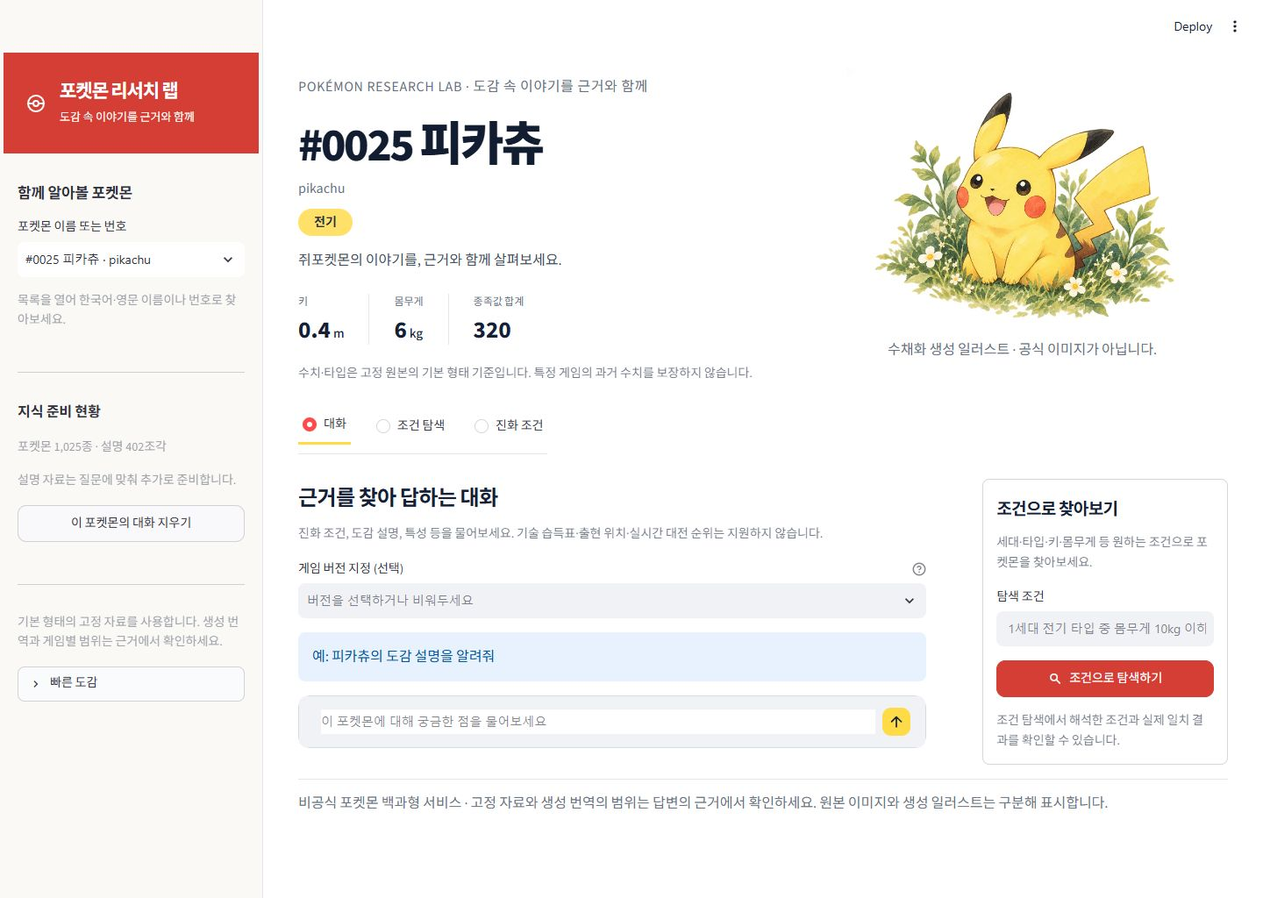
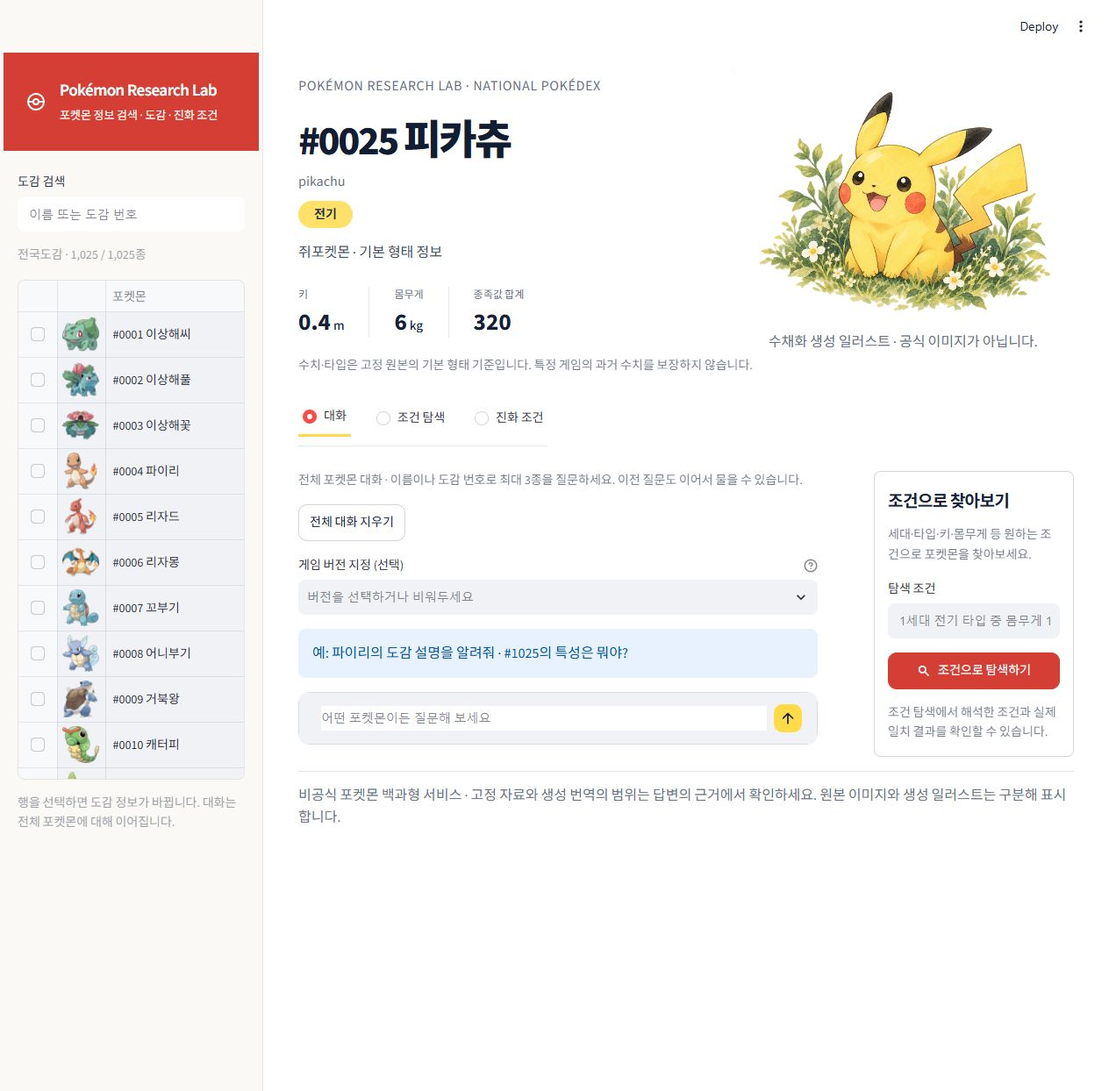
docs: save handoff, screenshots and self-review checkpoint

diff --git a/docs/rag/pokemon/HANDOFF.md b/docs/rag/pokemon/HANDOFF.md
@@ -1,0 +1,113 @@
+# Pokémon Research Lab 작업 인계
+
+기준: 2026-10-23 KST. 다른 채팅·도구·PC에서 작업을 이어갈 때 README와 이 문서를 먼저 읽고, 현재 파일과 실제 실행 결과를 다시 확인한다. 키나 데이터 전문은 이 문서에 없다.
+
+## 프로젝트와 사용자 결정
+
+현재 도메인은 포켓몬이다. 영화 데이터는 예비 후보였으며 사용하지 않았다. 반려식물도 검토했지만 포켓몬 백과형 RAG로 확정했다. 원래 ML 결과와 Streamlit 실습 예제는 보존한다.
+
+전국도감 1~1,025종을 대상으로 도감 설명·특성·진화 조건과 객관 조건 탐색을 제공한다. 최신 웹 전체 정보를 보장하는 서비스가 아니라 고정 PokéAPI 자료와 별도 생성 번역을 사용하는 비공식 도감이다. 특정 게임 적용 여부는 해당 버전의 근거로만 답한다.
+
+작업은 `WORK_PLAN.md`에 맞춰 작은 단위로 진행하고, 사용자가 다음 단위를 요청하기 전 이후 기능까지 만들지 않는다. 현재 추가 작업은 6b이며, 사용자가 체크리스트 점검과 인계 문서도 명시적으로 함께 요청했다. 선택 심화 F2013~F2016은 미선택이다.
+
+## 저장소와 제외 규칙
+
+- 공개 GitHub: https://github.com/cheese-flavor/pokemon-research-lab
+- 로컬 프로젝트 루트: `C:\Users\SSAFY\Desktop\05-pjt`.
+- 원본 루트의 `origin`은 GitLab로 남아 있지만 **사용자 요청으로 모든 GitLab 푸시·재시도 중단**. GitHub만 갱신한다. 원격 이름을 보고 무조건 `git push origin` 하지 않는다.
+- GitHub는 과거 ML 이력이 없는 별도 공개 이력이다. 최초 공개 커밋은 `5eb9a2b`, 공개 확인 문서 커밋은 `5f24f79`였다. 후속 커밋은 실제 Git 로그에서 확인한다.
+- 현재 공개 저장소 작업 복사본은 ignored `outputs/pokemon/public-release-v2/`다. 그 복사본의 `origin`은 GitHub다. 다른 PC에서는 GitHub를 새로 clone한다.
+- PDF, 원본/점검 Excel, 데이터, 다운로드한 이미지, API 응답 캐시, 임베딩, 벡터 DB, `.env`와 비밀은 모든 원격에서 제외한다. 이미 추적된 파일에는 ignore가 소급되지 않으므로 매번 스테이징 목록을 검사한다.
+- `scripts/export_pokemon_public.py`는 허용된 포켓몬 코드·설정·문서·테스트·생성 화면 에셋·집계 그림·기능 캡처만 새 폴더로 내보낸다. 대상은 새 폴더여야 한다. 기존 폴더 삭제/덮어쓰기나 과거 이력 재작성·force push를 하지 않는다.
+- 공개 갱신은 내보내기 후보와 비밀 검사를 거친 변경 파일만 GitHub 작업 복사본에 복사·검토·명시적 stage·commit·일반 push한다. `result`의 공개 범위도 PNG와 Markdown뿐이다.
+
+## 구현된 흐름과 파일
+
+| 영역 | 주요 파일 / 역할 |
+|---|---|
+| 수집 | `scripts/collect_pokemon_bulk.py`: 1,025종 정식 재현 경로. `collect_pokemon.py`는 151종 파일럿 |
+| 번역 | `translate_pokemon_descriptions.py`, `review_pokemon_translation.py`, `pokemon_korean_terms.py` |
+| 메타 색인 | `index_pokemon_metadata.py`, `src/pokemon/data.py`, `embeddings.py`, `store.py` |
+| 문서 준비 | `sources.py`, `ingestion.py`, `chunking.py`, `prompts.py` |
+| RAG | `retrieval.py`, `graph.py`, `rag.py`, `citations.py`, `llm.py` |
+| 전체 대화 | `conversation.py`: 정확한 이름/번호, 최대 3종의 별도 조회, 인용 재번호, 이전 주제 후속 질문 |
+| 특화 기능 | `explore.py`: 조건 해석 후 모든 속성 재검사. `evolution.py`: 원본 조건 행 확장 |
+| 화면 | `streamlit_lab/app.py`, `src/pokemon/ui_theme.py`, `streamlit_lab/assets/pokemon.css` |
+| 설정/테스트 | `config/pokemon_rag.toml`, `requirements-pokemon-rag.txt`, `tests/test_pokemon*.py` |
+
+LangGraph는 retrieve와 generate 두 노드다. 메타데이터를 반드시 포함하고, 외부 문서는 정확한 item_id/source_item_id와 요청 버전/버전 그룹으로 제한한다. 인용 번호가 맞는 것과 사실이 맞는 것은 별도 평가다. 사용한 출처만 화면에 표시하고 프롬프트/데이터 전문을 원격 tracing에 내보내지 않는다.
+
+조건 탐색은 세대·타입·키·몸무게·능력치·전설/환상 여부만 실제 메타데이터로 재확인한다. 모호하거나 미지원 조건은 결과를 만들지 않는다. 진화 카드는 원본 조건 행을 확장하며 AND/OR, 0 값, 형태 ID, 적용 범위를 유지한다.
+
+## 데이터와 로컬 전용 파일
+
+| 경로 | 의미 |
+|---|---|
+| `dataset/pokemon/items.json` | 기본 개체에 연결한 1,025종 메타데이터 |
+| `dataset/pokemon/documents.json` | 보존할 원본 코퍼스, 64,017문서 |
+| `dataset/pokemon/documents_ko_enriched.json` | 후속 RAG용 보완 코퍼스, 64,264문서 |
+| `dataset/pokemon/raw/bulk_*/` | 고정 리비전 CSV 20개와 원본 출처/해시 |
+| `dataset/pokemon/ingestion/active.json` | 반드시 읽어야 하는 현재 설명 컬렉션 포인터 |
+| `dataset/pokemon/ingestion/manifest_*.json` | 설정 세대별 필수 문서·청크 연결 |
+| `dataset/pokemon/ingestion/cache/` | 검색/모델 캐시와 전체 provenance sidecar |
+| `dataset/pokemon/vectorstore/`, `embeddings/` | 로컬 Chroma 및 GMS 임베딩 캐시 |
+| `dataset/pokemon/artwork/` | 1,025종 이미지와 출처/해시 manifest |
+| `streamlit_lab/.env` | 사용자가 입력한 로컬 GMS 키, 다른 환경에서 별도 준비 |
+| `outputs/pokemon/` | 비공개 실행 결과·답변·점검 사본·공개 내보내기 복사본 |
+
+한국어 설명이 없던 127종의 영어 버전 설명 247건을 GMS로 번역하고 별도 모델 검수했다. 생성 번역은 공식 한국어 문구나 독립된 사람 검수로 표시하지 않는다. 원문 언어/문구/ID/버전/모델/검수 provenance를 보존한다. 공식 한국어 명칭·구성요소 9개를 조사해 번역 11건을 보완했고, 날개의왕·무쇠이무기·외미르·내미르를 새 종으로 세지 않았다.
+
+메타 1,025건을 색인했고 설명은 질문별로 증분 준비한다. 작업 4의 224청크는 역사적 수치이며 작업 7의 추가 질문 이후 기본 설명 컬렉션은 402청크가 됐다. 새로운 질문은 이 수를 늘릴 수 있다. 전체 코퍼스를 모두 선색인했다고 가정하지 않는다. 다른 청킹 설정은 별도 컬렉션으로 보존한다.
+
+이름·타입 벡터 검색 점검은 기대 종 Top-5 3/5였으므로 고유명사 식별은 정확한 이름·번호를 사용한다. 의미 검색 품질이 충분히 검증됐다고 표현하지 않는다.
+
+## 모델과 재실행
+
+답변 모델은 사용자 선택 `gpt-6.1-sol`, 주소는 SSAFY GMS `https://gms.ssafy.io/gmsapi/api.openai.com/v1/responses`다. 임베딩은 GMS `text-embedding-3-small`, 1,536차원이다. 직접 OpenAI 계정으로 바꾸지 않는다. 모델 목록 조회는 500 오류였고 실제 임베딩/Responses 호출로 해당 모델을 확인했다.
+
+기존 PC에서는 프로젝트 루트 PowerShell에서 실행한다.
+
+```powershell
+streamlit_lab/.venv/Scripts/python.exe -m streamlit run streamlit_lab/app.py --server.port 8501 --server.headless true
+streamlit_lab/.venv/Scripts/python.exe -m unittest discover -s tests -p "test_pokemon*.py" -q
+streamlit_lab/.venv/Scripts/python.exe -m pip check
+streamlit_lab/.venv/Scripts/python.exe scripts/verify_pokemon_submission.py
+```
+
+페이지는 http://127.0.0.1:8501/ 이며 인터넷 배포 URL이 아니다. 서버 프로세스가 종료되면 다시 실행한다. 포트 8502는 이번 셀프 점검의 임시 결함 주입 화면이며 제품 서비스가 아니다.
+
+다른 PC는 README의 설치 순서를 따른다. Python 3.11 이상, 새 venv, requirements 설치, bulk 수집, 사용자 로컬 `.env`, 번역/용어 검수 절차, 메타 색인, 이미지 수집 후 앱을 실행한다. 데이터와 키가 GitHub에 없으므로 clone만으로 동일 화면/답변이 바로 재현되지는 않는다. 원본 키를 이 문서나 대화·브라우저 업로드로 옮기지 않는다. 새 번역/색인/질문은 실제 GMS 호출이 생길 수 있다. 캐시가 없는 상태의 offline 검증은 실패하는 것이 정상이다. 새 PC 전체 설치 재현은 아직 실행 검증하지 않았다.
+
+## 최신 화면·성능 정책
+
+디자인은 빨강/흰색 전자 도감과 수채화 그림 조합이다. 피카츄·코일은 생성 수채화, 다른 종은 PokéAPI 원본 그림이며 구분·출처를 표시한다. 없는 이미지는 회색 공통 실루엣과 물음표다. 원본 이미지 1,025종을 확보했고 오프라인 해시 확인에서 누락/오류 0이었다. 다운로드 원본은 공개하지 않는다. Tabler 아이콘의 MIT 고지를 포함한다. 포켓몬 이미지의 재사용 권리를 포괄적으로 보장하지 않는다.
+
+최신 사용자 요청으로 왼쪽은 아이콘 전체 도감만 남기고, 제목은 영어로 바꿨다. 대화는 선택 도감과 독립된 전체 세션이며 원래의 항목별 기록 규칙을 대체한다. 출처 종 격리는 그대로다. 한 번에 최대 3종을 분리 설명하며 비교 결론을 별도로 합성하는 기능은 아니다.
+
+준비된 종의 단순 질문은 동일 세대의 필수 문서/청크를 확인해 준비용 모델 2단계를 재사용한다. 버전 표현·다른 설정·미준비 종은 원래 흐름을 따른다. 파이리의 준비된 새 질문 7.390초, 같은 질문 반복 1.070초를 실측했다. 과거 신규 자료 준비 포함 질문은 약 44초였다. 조건이 달라 동일 조건 개선율로 계산하지 않는다. 상세는 `GLOBAL_CHAT_VALIDATION.md`.
+
+## 검증·체크리스트와 남은 일
+
+최신 회귀 70개 통과, RAG 8사례 및 Top-k 3/5/8 비교, 제출 캐시 10사례, 메타 재색인 두 번 1,025건 유지, pip check를 실행했다. 기능별 실제 화면은 루트 `result/`에 있다. 실제 실행하지 않은 별도 환경/품질 시험을 통과로 바꾸지 않는다.
+
+로컬 원본 `2회차_셀프·상호_체크리스트.xlsx`는 보존했고 입력 사본은 `outputs/pokemon/checklist-review/2회차_체크리스트_셀프점검_20261023.xlsx`다. 27항목을 통과 17 / 실패 2 / 미확인 2 / 해당없음 6으로 채웠다. 원문·방법·집계 수식·서식·선택 목록을 유지하며, 실제 사람의 상호 점검과 피드백은 미실시다. 이 사본도 Git 제외다.
+
+남은 사항:
+
+1. 전체 대화 유지 정책과 원본 F2009/체크리스트 10번의 항목별 대화 분리 기준을 평가자와 정합화한다. 요청된 전체 대화를 임의로 되돌리지 않는다.
+2. F2004의 고정 외부 자료 카탈로그 검색이 질문 시점 원격 검색 요구를 충족하는지 평가 기준을 확인한다. 현재 이를 완전 통과로 표시하지 않는다.
+3. 신규 종/미준비 상태의 지연과 더 넓은 질문 표본을 평가한다. 캐시 재현을 cold/network 성능으로 부르지 않는다.
+4. 실제 교육생 상호 점검과 독립된 사실 평가를 받고, 제출자·파일명 규칙을 확인해 최종 제출물을 구성한다. 현재 최종 제출 승인 완료는 아니다.
+5. 외부 서비스 배포나 선택 심화는 사용자가 별도 요청할 때 진행한다.
+
+과거 상세 기록은 `DATA_VALIDATION.md`, `TRANSLATION.md`, `KOREAN_TERMS.md`, `EDA.md`, `INDEXING.md`, `INGESTION.md`, `RAG_VALIDATION.md`, `UI_VALIDATION.md`, `FINAL_REVIEW.md`, `SUBMISSION.md`, `ARTWORK.md`, `PUBLIC_RELEASE.md`를 순서에 맞게 참고한다. 문서별 당시 수치와 최신 상태를 구분한다.
+
+## 이번 대화의 저장 지점
+
+사용자가 대화 용량을 고려해 재개 가능한 상태만 남기도록 요청했다. 추가 개발·큰 검증은 중단했다. 구현 코드와 현재 점검 결과를 저장하되 최종 제출 승인으로 표시하지 않는다.
+
+재개할 때 할 일은 먼저 Git 상태와 이 문서를 확인하고 앱을 재시작하는 것이다. 마지막 종별 프롬프트 문구 다듬기까지 회귀 70개는 통과했지만, 그 문구의 복수 종 브라우저 재촬영과 독립 사실 검수는 남아 있다. 기존 08번 캡처를 이 문구의 최종 검증으로 부르지 않는다. 핵심 기능 화면 13장과 셀프 점검 사본은 이미 저장했다.
+
+다음 채팅에 사용할 요청 예시: “docs/rag/pokemon/HANDOFF.md와 WORK_PLAN.md를 먼저 읽고 현재 상태를 확인해줘. GitLab은 건드리지 말고 GitHub만 사용해. 우선 미완료 점검을 설명한 뒤 내가 지정한 작업만 진행해줘.”
+
+이번 UI/전체 대화/준비 재사용 구현의 원본 로컬 커밋: `e0b020b`. 공개 GitHub 복사본의 커밋 해시는 별도 이력이므로 다를 수 있다.

diff --git a/docs/rag/pokemon/GLOBAL_CHAT_VALIDATION.md b/docs/rag/pokemon/GLOBAL_CHAT_VALIDATION.md
@@ -1,0 +1,47 @@
+# 전체 도감·대화 후속 검증
+
+2026-10-23 KST. 사용자 추가 작업 6b 및 체크리스트 셀프 점검 기록이다. GitLab 푸시는 중단하며 GitHub 공개본만 갱신한다.
+
+## 변경한 동작
+
+- 왼쪽은 검색 입력과 이미지 아이콘을 가진 전국도감 1,025종 스크롤 목록이다. 전체 행을 한 번에 전달하되 44px 축소 이미지와 캐시를 사용하고, 표는 화면에 보이는 행을 렌더링한다. 기존 선택 상자·지식 준비 현황·12종 빠른 도감은 제거했다.
+- 브랜드는 `Pokémon Research Lab`, 설명은 `포켓몬 정보 검색 · 도감 · 진화 조건`이다. 본문의 반복적인 홍보 문구도 기능 설명으로 바꿨다.
+- 대화는 현재 도감 선택과 독립된 하나의 브라우저 세션 기록이다. 정확한 한국어·영문명과 `#25`, `도감 25`, `25번`을 연결하며, 긴 이름을 우선한다. 한 글자 이름인 뮤도 처리한다. 도감 목록 선택은 대화 주제를 바꾸지 않는다.
+- 질문에 새로운 이름이 있으면 그 종으로 연결하고, 이름 없는 후속 질문은 이전 대화 대상과 직전 사용자 질문을 사용한다. 대상이 없거나 3종을 초과하면 구체화를 요청한다. 대화 기록 전체를 모델이나 원격 추적으로 전송하지 않는다.
+- 최대 3종의 질문은 종별로 조회·답변하고 인용 번호를 전체 응답에서 다시 매긴다. 종 간 사실 비교를 별도 평가한 기능은 아니며, 종별 설명을 제공한다. 조건으로 찾는 질문은 기존 객관 조건 검사로 연결된다.
+- 버전 필터·생성 번역 표시·원문 링크·인용된 출처만 표시하는 규칙은 유지한다. 기존 단일 항목 RAG의 다른 종 요청 차단도 유지하며 전체 대화 라우터가 그 앞에서 종을 결정한다.
+
+## 준비 과정 재사용
+
+이미 해당 종의 필수 자체 문서가 색인된 경우에 한해 준비용 프롬프트 1/2와 문서 임베딩을 반복하지 않는다. 코퍼스·청커·청크 설정·임베딩 모델·차원의 서명과 필수 문서/청크 ID를 대조한다. 실제 저장소에서 확인한 후 활성 포인터를 설정한다. 답변 검색과 생성은 그대로 수행하며 기존 질의 임베딩·답변 캐시도 유지한다.
+
+버전 표현이 있거나 익숙하지 않은 질문·준비되지 않은 종·다른 색인 세대는 기존 준비 과정으로 돌아간다. `prepare_documents` CLI 기본값은 기존 두 프롬프트 경로여서 검색어·후보 선별 증빙을 다시 확인할 수 있다. 질의 문서 검색은 선택 종/출처 종과 버전을 계속 필터링한다.
+
+같은 실행 환경에서 `파이리의 도감 설명을 알려줘`를 연속 측정했다. 파이리는 이미 필수 설명 문서가 준비된 상태였고, 이 정확한 질문의 답변/질의 벡터는 첫 측정에서 새로 생성됐다.
+
+| 측정 | 전체 시간 | 준비 모델/문서 임베딩 | 질의 임베딩 | 답변 생성 |
+|---|---:|---:|---:|---:|
+| 준비된 종의 새 질문 | 7.390초 | 0 / 0회 | 1회 | 1회 |
+| 같은 질문 반복 | 1.070초 | 0 / 0회 | 0회 | 0회 |
+
+과거 신규 자료 준비를 포함한 두 질문은 약 44초였다. 질문·캐시 조건이 다르므로 동일 조건의 44→7초 개선 실험으로 해석하지 않는다. 처음 다루는 종은 여전히 준비 비용이 발생한다. 브라우저에서 2종의 새 질문은 19.03초로 측정됐다. 모든 종/질문의 지연 목표를 달성했다는 주장은 하지 않는다.
+
+## 실행한 점검
+
+- 포켓몬 회귀 테스트 70개 통과. 전역 이름·번호 라우팅, 새 대상 우선, 후속 질문, 인용 묶음 재번호, 잘못된 번호의 이전 종 대체 금지, 준비 자료 재사용 및 버전/설정 변경 시 우회 금지를 포함한다.
+- 메타 색인 오프라인 재실행 두 번 모두 1,025→1,025건, 추가 임베딩 0회. 25번의 저장 텍스트가 준비 레코드와 일치하고 6능력치와 합계를 포함함을 확인했다.
+- 기존 RAG 8사례, Top-k 3/5/8 비교와 오프라인 답변/출처 동일성 확인. 별도 제출 10사례 캐시 재현과 입력 해시 유지 확인. `pip check` 통과.
+- 실제 브라우저에서 피카츄 도감을 유지한 채 파이리 질문, 2종 대화, 메타/문서 출처 구분, 2종 조건 결과와 빈 결과, 진화 조건, 미지원 질문을 확인했다.
+- 키/색인 누락과 안전 오류는 별도 8502 포트의 결함 주입 점검 화면에서 확인했다. 실제 `.env`나 색인을 삭제하지 않았다. 오류 원문과 추적 정보·테스트 비밀 문자열이 화면에 나타나지 않았다.
+- 기능별 실제 캡처 목록은 루트 `result/README.md`에 있다. 캡처는 데이터 전문이나 키 파일이 아니다.
+
+## 체크리스트 판정
+
+원본을 보존한 사본의 지정 입력만 채웠다. 확인 항목·방법·집계 수식·스타일·병합·선택 목록·고정 창은 보존했고, 통과 17 / 실패 2 / 미확인 2 / 해당없음 6 / 미기입 0으로 집계됐다. 상호 피드백 입력란은 비워두었다. 실제 사람의 점검자로 에이전트를 기재하지 않고 자동 셀프 점검임을 표시했다.
+
+- 10번 실패: 기존 항목별 대화 분리 기준과 사용자가 새로 요청한 전체 대화 유지 정책이 다르다. 다른 종의 출처가 섞이는 버그와 구분한다.
+- 20번 미확인: 준비된 종의 두 번 측정은 했으나 신규 종 전체와 운영 지연 적합성의 최종 판단은 유보했다.
+- 25번 실패: 위 정책 차이와 F2004의 질문 시점 원격 검색 해석이 남았다.
+- 27번 미확인: 실제 사람의 상호 점검과 최종 제출 패키지는 완료되지 않았다.
+
+워크북은 로컬 `outputs/pokemon/checklist-review/`에만 있으며 공개 Git에 포함하지 않는다. 최종 제출 승인 완료로 표시하지 않는다.

diff --git a/README.md b/README.md
@@ -2,7 +2,7 @@
 
 **포켓몬을 찾고, 질문하고, 출처로 확인하는 포켓몬 백과형 RAG 웹 앱입니다.**
 
-전국도감 1~1,025번을 대상으로 도감 설명·특성·진화 조건을 탐색합니다. 자연어 조건으로 포켓몬을 찾고, 선택한 포켓몬에 대해 근거를 확인하며 대화할 수 있습니다.
+전국도감 1~1,025번을 대상으로 도감 설명·특성·진화 조건을 탐색합니다. 자연어 조건으로 포켓몬을 찾고, 도감 선택과 별개로 포켓몬 이름·번호를 질문하고 원문 출처를 확인할 수 있습니다.
 
 [실행 후 서비스 열기](http://127.0.0.1:8501) · [데이터와 출처](docs/rag/pokemon/DATA.md) · [RAG 설계](docs/rag/pokemon/RAG_DESIGN.md) · [검증 및 한계](docs/rag/pokemon/SUBMISSION.md)
 
@@ -20,8 +20,8 @@
 
 | 기능 | 제공 내용 |
 |---|---|
-| 포켓몬 백과 | 한국어·영문 이름과 도감 번호로 1,025종 선택, 타입·키·몸무게·종족값 확인 |
-| 근거 기반 대화 | 도감·특성·진화 질문, 답변 인용 번호와 실제 사용한 원문 링크, 포켓몬별 세션 대화 |
+| 포켓몬 백과 | 아이콘이 있는 1,025종 스크롤 목록, 한국어·영문 이름과 번호 검색, 타입·키·몸무게·종족값 확인 |
+| 근거 기반 대화 | 도감·특성·진화 질문, 답변 인용 번호와 실제 사용한 원문 링크, 전체 세션 대화, 이름·번호 자동 연결, 최대 3종 개별 설명 |
 | 자연어 조건 탐색 | 세대·타입·키·몸무게·능력치·전설/환상 여부 조건 해석, 실제 속성 재검사, 결과 선택 후 대화 이동 |
 | 진화 조건 | 검색된 조건 행을 출처와 함께 표시하고 조건의 AND/OR·형태·게임 범위를 안내 |
 | 버전과 번역 표시 | 게임 버전 지정, 원본 한국어와 생성 한국어 구분, 영어 원문 연결 |
@@ -134,3 +134,5 @@ dataset/pokemon/                 로컬 데이터·캐시·이미지·벡터 DB 
 | 2026-10-23 14:51 이후 | 전자 도감/수채화 디자인 적용, 1,025종 이미지 확보, 빠른 조건 탐색과 공개본 준비 |
 
 구체적인 작업 범위는 [작업 계획](docs/rag/pokemon/WORK_PLAN.md), 화면 변경은 [디자인 기록](docs/rag/pokemon/DESIGN.md)을 참고하세요.
+
+2026-10-23 15:30 이후: 아이콘 전체 도감, 전체 대화 및 준비 문서 재사용을 적용했습니다. 기능별 캡처는 [result](result/README.md), 실제 점검 범위는 [추가 검증](docs/rag/pokemon/GLOBAL_CHAT_VALIDATION.md), 다른 환경에서 이어갈 때는 [인계 문서](docs/rag/pokemon/HANDOFF.md)를 참고하세요.

diff --git a/result/VALIDATION.md b/result/VALIDATION.md
@@ -1,0 +1,15 @@
+# 실행 검증 집계
+
+2026-10-23 KST. 자동 셀프 점검이며 독립된 사람의 사실 평가를 대체하지 않는다.
+
+- 최신 회귀 테스트: 70개, 17.773초, 모두 통과. pip check 통과.
+- 메타데이터: 1,025건 로드 = 1,025건 색인. 오프라인 색인 두 번 모두 1,025→1,025, 임베딩 호출 0. 25번의 색인 텍스트가 준비 레코드와 일치하며 여섯 능력치·종족값 합계 포함.
+- 기존 RAG 8사례 및 Top-k 3/5/8 근거 수 비교, 답변/출처 오프라인 동일성 통과. 제출 10사례 캐시 재현, 외부 호출 0 및 입력 해시 유지 확인.
+- 이전 청킹 실측: 이브이 800자/100자 중복은 122청크, 400자/100자 중복은 141청크. 별도 컬렉션이며 기본 프로필로 복원. 상세는 INGESTION.md.
+- 검색어/후보 선별: 기존 실제 audit에 후보 30개 선택·제외 이유와 필수 자기 문서 포함을 확인. 고정 자료 카탈로그 검색이며 질문 시점 웹 검색으로 주장하지 않음.
+- 그래프: START → retrieve → generate → END, 실행 노드 2개.
+- 준비된 파이리의 정확히 새 질문: 7.390초(답변 1회·질의 임베딩 1회·준비 호출 0). 같은 질문 반복 1.070초(모델·임베딩 0회). 전체 미준비 종의 cold 성능은 미검증.
+- 실제 UI 기능별 캡처 13장. 결함 주입 오류에서 Traceback와 테스트 비밀 문자열 비노출 확인.
+- 셀프 체크리스트: 통과 17 / 실패 2 / 미확인 2 / 해당없음 6 / 미기입 0. 실패에는 요청된 전체 대화와 기존 항목별 분리 평가 기준의 차이가 포함된다. 상호 점검은 미실시.
+
+전체 한계와 판정 이유는 docs/rag/pokemon/GLOBAL_CHAT_VALIDATION.md. 원본 데이터·답변 전문·API 캐시·점검 Excel은 로컬 outputs/pokemon 및 dataset/pokemon에만 보관한다.

diff --git a/result/README.md b/result/README.md
@@ -1,0 +1,23 @@
+# 기능별 실행 화면
+
+2026-10-23 KST, 실제 로컬 Streamlit 화면. 키·데이터 파일은 포함하지 않는다. 전체 캡처는 현재 PC에서 실행한 상태이며 인터넷 배포 화면이 아니다.
+
+| 파일 | 확인 내용 |
+|---|---|
+| 01_catalogue.png | 영어 브랜드와 아이콘 전체 도감 |
+| 02_global_chat_sources.png | 피카츄 도감에서 파이리 질문·문서 출처 |
+| 03_condition_search.png | 1세대 전기 타입·10kg 이하, 25/81번 일치 |
+| 04_evolution_conditions.png | 진화 카드·조건 행·범위·원문 링크 |
+| 05_empty_search.png | 객관 조건 결과 0종 안내 |
+| 06_unsupported_question.png | 미수집 기술 습득 질문·인용 없음 안내 |
+| 07_response_status.png | 실제 답변 생성 중 진행 상태 |
+| 08_multi_species_chat.png | 두 종별 답변과 전체 인용 번호 분리 |
+| 09_missing_key.png | 별도 결함 주입 화면의 키 누락 안내 |
+| 10_missing_index.png | 별도 결함 주입 화면의 색인 누락 안내 |
+| 11_safe_error.png | 오류 상세를 숨긴 복구 안내와 확인 번호 |
+| 12_metadata_source.png | 메타데이터 출처 구분 |
+| 13_catalogue_selection.png | 목록에서 파이리 선택 후 이전 전체 대화 유지 |
+
+09~11은 실제 설정·키·색인 파일을 지우지 않고 테스트 프로세스에서 결함을 주입한 화면이다. 08 캡처 뒤에는 종별 답변에서 불필요한 비교 불가 안내를 줄이도록 프롬프트 문구를 다듬었다. 해당 문구 변경의 브라우저 재촬영은 재개 후 가능하다.
+
+[검증 집계](VALIDATION.md), [전체 작업 인계](../docs/rag/pokemon/HANDOFF.md). 원본 및 점검용 엑셀은 Git에서 제외한다.
